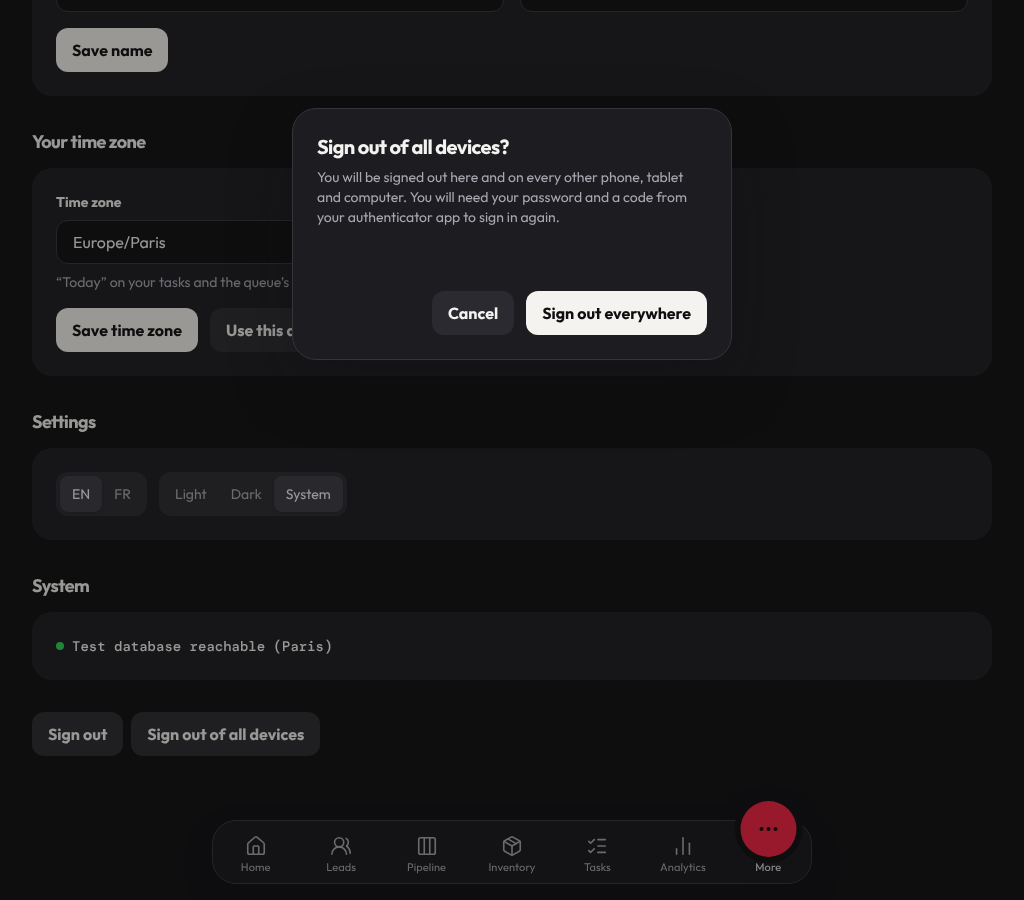
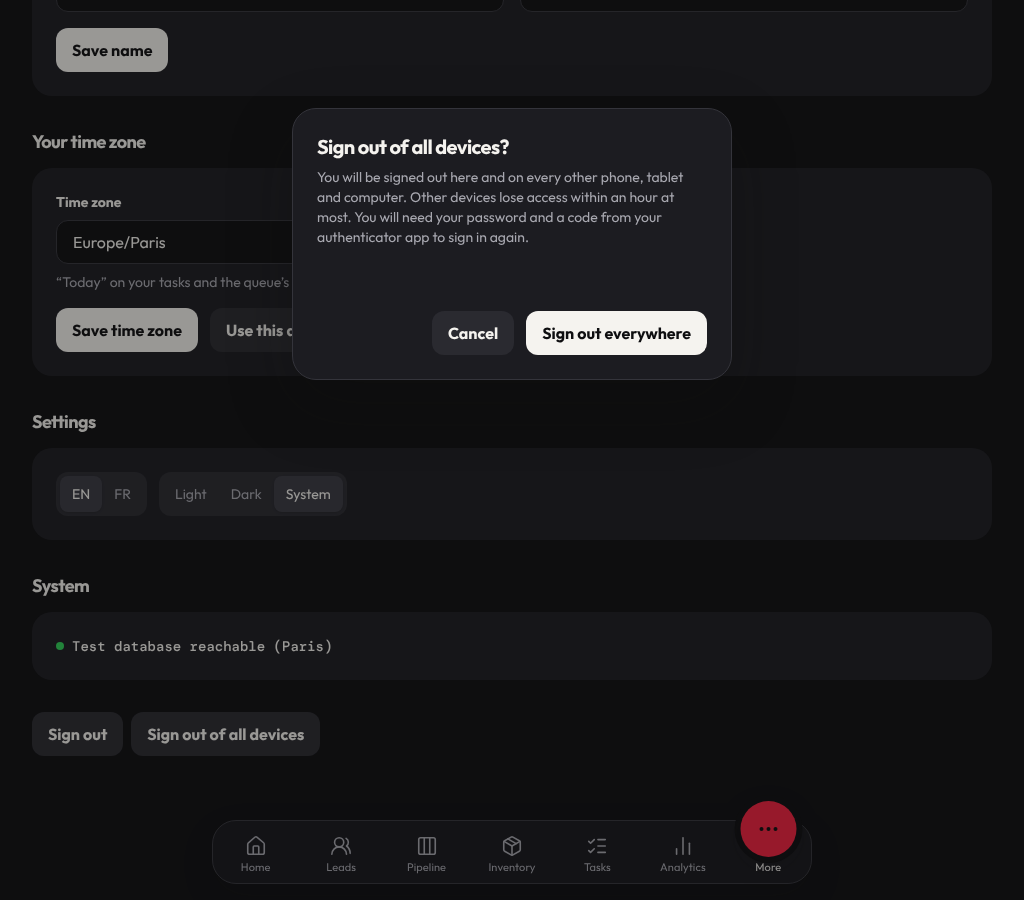
Day 7a round 2 evidence: honest rate-limit and sign-out residuals, Day 6 allowlist proof, security review, design notes, retaken sheet screens, 16 of 16 mutations, log rows
Claude-Session: https://claude.ai/code/session_017iY13emXgm4frkkmSZrEnt

Changed region(s): [[0.4375, 0.3111, 0.6875, 0.4044], [0.3125, 0.2178, 0.6562, 0.28]]

diff --git a/docs/evidence/day7a/README.md b/docs/evidence/day7a/README.md
@@ -10,11 +10,11 @@ Not pushed, no PR (builder task).
 
 | # | Gap (plan) | Change | Files |
 |---|---|---|---|
-| 1 | Anon test covered Day 1's 12 tables and 6 functions only (item 7) | `rls_attack.sql` section 1 now reads the catalog: every table, view, materialized view, foreign table, sequence and function in `public` and `private` is checked for any anon privilege (table, column, sequence, function), schema `private` has no anon USAGE and neither schema anon CREATE; then anon really tries SELECT, INSERT, UPDATE and DELETE on every relation (each must fail with 42501 before touching a row). Empty allowlist (comment says how to add one) | `supabase/tests/rls_attack.sql` |
+| 1 | Anon test covered Day 1's 12 tables and 6 functions only (item 7) | `rls_attack.sql` section 1 now reads the catalog: every table, view, materialized view, foreign table, sequence and function in `public` and `private` is checked for any anon privilege (table, column, sequence, function), schema `private` has no anon USAGE and neither schema anon CREATE; then anon really tries SELECT, INSERT, UPDATE and DELETE on every relation (each must fail with 42501 before touching a row). Allowlists: relations none; functions exactly `public.share_view(text,text)` and `public.share_request(text,jsonb)` by full signature (`regprocedure` text, schema-qualified), which Day 6 grants to anon by design (`20261020090000_client_share.sql`, the `grant execute … to anon` line, :1050 on `day6a-local`) | `supabase/tests/rls_attack.sql` |
 | 2 | No "Sign out of all devices" (item 25) | Server action `signOutEverywhere` (`signOut({ scope: "global" })`) behind `requireSession()` (aal2, checked on the server); a quiet button on More next to Sign out opens a confirmation sheet (Radix dialog, no browser popup; bottom sheet on phones); failure keeps the sheet open with a short message; EN/FR | `src/app/(auth)/actions.ts`, `src/components/shell/sign-out-everywhere.tsx`, `src/app/(app)/more/page.tsx`, `loading.tsx`, `messages/*.json` |
 | 3 | Auth cookie Secure flag unverified (item 47) | One `authCookieOptions(https)` for every Supabase client (proxy, server, browser): `Secure` whenever the request is HTTPS (URL or `x-forwarded-proto`, which Vercel sets), `SameSite=Lax`, `Path=/`, not HttpOnly (the browser client of the Files tab reads them; accepted residual 3). `__Host-` is not possible (the library names the cookies `sb-<ref>-auth-token`) | `src/lib/supabase/cookie-options.ts`, `client.ts`, `server.ts`, `src/proxy.ts` |
-| 4 | No limit on search and list APIs (item 28) | Per-person sliding window keyed by the verified user id: 300 requests a minute across `/api/leads` (search and the lead pickers), `/api/pipeline/board`, `/stage`, `/summary` and `/api/tasks`; 429 `{ "error": "rate_limited" }`, `Retry-After`, no-store | `src/lib/rate-limit.ts`, the five `route.ts` |
-| 5 | Sign-ins not audited (question 9) | `audit_log` gains actions `sign_in` and `mfa_verify`; `public.record_auth_event(p_event)` is SECURITY INVOKER: the caller inserts one row about themselves under RLS (policy pins actor, org, action, table `auth`, no record id, no details; column grant on 4 columns; the table's restrictive aal2 policy applies). Written after the authenticator code is accepted at sign-in (`verifyTotp`, `verifyTotpEnrollment`: exactly one `sign_in` per sign-in) and at "Confirm it's you" (`verifyStepUp`: `mfa_verify`). No IP, no email, no details. Flood guard: 30 an hour per person (a DEFINER trigger, not callable, so it can count rows only admins can read). Best effort: a failed write never blocks a sign-in | `supabase/migrations/20261021100000_day7a_security.sql`, `src/lib/auth-events.ts`, `src/app/(auth)/actions.ts`, `src/app/(app)/step-up-actions.ts` |
+| 4 | No limit on search and list APIs (item 28) | Per-person sliding window keyed by the verified user id: 300 requests a minute across `/api/leads` (search and the lead pickers), `/api/pipeline/board`, `/stage`, `/summary` and `/api/tasks`; 429 `{ "error": "rate_limited" }`, `Retry-After`, no-store. A speed bump, not scrape protection (decisions and residual R1 below) | `src/lib/rate-limit.ts`, the five `route.ts` |
+| 5 | Sign-ins not audited (question 9) | `audit_log` gains actions `sign_in` and `mfa_verify`; `public.record_auth_event(p_event)` is SECURITY INVOKER: the caller inserts one row about themselves under RLS (policy pins actor, org, action, table `auth`, no record id, no details; column grant on 4 columns; the table's restrictive aal2 policy applies). Written after the authenticator code is accepted at sign-in (`verifyTotp`, `verifyTotpEnrollment`: exactly one `sign_in` per sign-in) and at "Confirm it's you" (`verifyStepUp`: `mfa_verify`). No IP, no email, no details. Flood guard: 30 an hour per person (a DEFINER trigger, not callable, so it can count rows only admins can read; a row about someone else is left to RLS before any count, so a refusal never tells a caller another person's sign-in count). Best effort: a failed write never blocks a sign-in | `supabase/migrations/20261021100000_day7a_security.sql`, `src/lib/auth-events.ts`, `src/app/(auth)/actions.ts`, `src/app/(app)/step-up-actions.ts` |
 | 6 | Same-org owner check (item 49, question 5) | Finding: `private.enforce_org_and_owner` already refuses an owner outside the caller's organisation since `20261010090000_leads_are_companies.sql` (the Day 5 review read the core version); only the lead owner through `update_lead` was tested (`rls_attack.sql`), and it skips sessions with no signed-in user by design. Added as a database rule for every path: `profiles (id, org_id)` unique, and composite foreign keys `companies (owner_id, org_id)`, `deals (owner_id, org_id)`, `tasks (assignee_id, org_id)` to it (`on delete set null (owner column)`). Now tested on every path a manager can choose an owner | same migration, `supabase/tests/day7a_attack.sql` |
 
 Also: `scripts/db-test.sh` takes `DB_TEST_PORT` (default 54329) so two checkouts can run it at once; CI (`db.yml`) runs
@@ -24,9 +24,16 @@ the new attack file; `scripts/db-mutations.py` has a `day7a` set.
 - No step-up for Sign out everywhere: it only removes access and is what someone does after losing a device; Master
   Plan section 8 lists step-up for adjustments, imports, exports, deletes and role changes. The server still requires a
   full aal2 session.
-- Rate limit in the app, per instance, not the plan's `private.rate_hits` table: no extra database round trip on every
-  list request (route budget 200 ms), no new DEFINER RPC, and a stolen session's scrape is still capped per instance.
-  The platform-wide layer is the Vercel Firewall rule (Day 8, after Pro).
+- **Rate limit: deviation awaiting Haider (HAIDER DECIDES; recommended: accept as residual R1).** Master Plan section 8
+  item 28 and the plan's `private.rate_hits` table are not built; the limit is in the app, in memory, per server
+  instance (on Vercel each function instance keeps its own window and a cold start resets it). It is a speed bump
+  against a runaway client and casual scripting of the five routes, **not scrape protection**: authenticated has direct
+  SELECT on `public.companies` through PostgREST (`20261009180000_core_schema.sql:452`) and the auth cookies are
+  readable by scripts (residual 3), so a stolen session can read `{supabase}/rest/v1/companies` directly, up to
+  `max_rows` 1000 rows per request, without touching these routes. A `private.rate_hits` guard in the routes would be
+  bypassed the same way, so it would add a database round trip per list request (route budget 200 ms) for no real
+  gain. The real layers are two-factor sign-in, the Vercel Firewall rule (Day 8, after Pro) and, later, an RPC-only
+  read path (no direct table SELECT for authenticated).
 - Migration timestamp 20261021100000 sorts after Day 6's last (20261020090000_client_share). Day 6 does not change
   `audit_log_action_check` (checked on `day6a-local`), so redefining it here loses nothing at the merge.
 
@@ -41,8 +48,9 @@ the new attack file; `scripts/db-mutations.py` has a `day7a` set.
   columns and no update/delete; B1 one row each, only who/what/when, rep cannot read it, own-org admin reads it, other
   org admin does not; B2 forgeries refused: another person's row, another org, another action, another table, details
   (an IP in `diff_json`), a back-dated `created_at`, aal1, update and delete (admin too); B3 anon; B4 the 31st row in
-  an hour is refused (`rate_limited`), another person is not held.
-- **SQL** `rls_attack.sql` section 1 (catalog sweep, above).
+  an hour is refused (`rate_limited`), another person is not held; B5 with the victim at 30 rows, a forged row about
+  them gets 42501 from RLS, not the flood guard's 22023, and the victim's own 31st row is still held.
+- **SQL** `rls_attack.sql` section 1 (catalog sweep, above; function allowlist for Day 6's two share functions).
 - **Unit** `tests/unit/auth-cookies.spec.ts` (the options; the real `@supabase/ssr` server client writing a refreshed
   session with a stub fetch, HTTPS and plain HTTP; a scan that every `createServerClient`/`createBrowserClient` in
   `src` passes the options), `tests/unit/rate-limit.spec.ts` (window, per person, refusals do not extend it, LRU cap,
@@ -54,24 +62,27 @@ the new attack file; `scripts/db-mutations.py` has a `day7a` set.
   confirm deletes every `auth.sessions` row of the person, clears this browser's cookies, the second browser lands on
   `/login` and its API answers 401; no console error); French button and sheet.
 
-## Checks (15 Oct 2026, on this branch's final code)
+## Checks (15 Oct 2026, on this branch's final code; re-run after the advisor's round 1, see the last rows)
 
 | Check | Result |
 |---|---|
 | `npm run lint` | 0 errors (2 existing warnings: TanStack `useVirtualizer` incompatible-library) |
 | `npm run typecheck` | clean |
 | `npm run test:unit` | 504 passed (new: auth-cookies 5, rate-limit 5; messages now cover `More`) |
-| `DB_TEST_PORT=54497 bash scripts/db-test.sh` (scratch PostgreSQL 16, own port) | all suites green, `day7a_attack: all checks passed`; `rls_attack` with the catalog sweep green |
+| `DB_TEST_PORT=54497 bash scripts/db-test.sh` (scratch PostgreSQL 16, own port) | all suites green, `day7a_attack: all checks passed` (incl. B5); `rls_attack` with the catalog sweep and the function allowlist green |
+| Anon sweep against Day 6 (scratch PostgreSQL 16 on 54498: `day6a-local` a083511's 16 migrations + this branch's migration, same shim) | `rls_attack.sql` **without** the allowlist (e038d65..66a25d4 version): `FAIL: anon can execute public.share_view(p_token text, p_known_version text)`; **with** it: `rls_attack: all checks passed`, and `day7a_attack: all checks passed` on the merged schema; exactness: an extra `public.share_view(text)` overload granted to anon fails the sweep (`FAIL: anon can execute public.share_view(p text)`) |
 | Supabase advisors (splinter, in db-test) | 0 ERROR; WARN `set_user_role` SECURITY DEFINER (accepted Day 1); INFO unindexed_foreign_keys 8 (was 5: the three composite keys; the existing single-column owner indexes serve profile deletes; accepted), unused_index 5 (empty database). `record_auth_event` is INVOKER, so no new DEFINER warning. Dev project advisors run after `deploy-dev-db` applies the migration (not deployed from here) |
-| Mutation anchors `python3 scripts/db-mutations.py --anchors` | all sets apply: 3b 37, 4a 104, 4b 94, 4c 92, 4d 44, 5a 76, 5b 20, 5c 21, team 4, **day7a 15** |
-| Mutation rows `DB_TEST_PORT=54497 python3 scripts/db-mutations.py --set day7a` | **15 of 15 caught** (`mutations.md`): 4 anon grants Day 1's list never named (incl. Day 5's `deal_stage_history`, a private table, schema `private`, a new RPC), 4 same-org rows (keys only, trigger only, both, task key), 7 sign-in-row rows (actor, org, action, table, `diff_json` grant, flood guard, DEFINER) |
+| Mutation anchors `python3 scripts/db-mutations.py --anchors` | all sets apply: 3b 37, 4a 104, 4b 94, 4c 92, 4d 44, 5a 76, 5b 20, 5c 21, team 4, **day7a 16** |
+| Mutation rows `DB_TEST_PORT=54497 python3 scripts/db-mutations.py --set day7a` | **16 of 16 caught** (`mutations.md`): 4 anon grants Day 1's list never named (incl. Day 5's `deal_stage_history`, a private table, schema `private`, a new RPC), 4 same-org rows (keys only, trigger only, both, task key), 8 sign-in-row rows (actor, org, action, table, `diff_json` grant, flood guard, flood guard counting a forged row (new, row 15), DEFINER) |
 | Planted breaks in TypeScript (unit tests) | 7 of 7 caught: proxy or server client without the shared options, Secure on plain HTTP, SameSite=None, Tasks API without the limit, a limiter that never refuses, a 429 that leaks counts |
 | Chromium e2e, throwaway isolated stack (Postgres 54540, GoTrue 9995, gateway 54541, `next start` 3400; never the shared stack) | `day7a.spec.ts` 6 passed; regression on what the change touches: `shell`, `team`, `leads`, `tasks`, `pipeline` 62 passed + 3 of `day4-security` before an artefact clash, then `day4-security` and `day5-security` 15 passed on a clean re-run (the first run's 2 failures were Playwright trace files deleted by a unit run sharing `test-results/`, ENOENT in `context.close()`, not app failures) |
+| Round 2 (after the advisor's CHANGES NEEDED) | lint 0 errors (same 2 warnings); typecheck clean; unit 504 passed; `day7a.spec.ts` 6 passed (now also checks the sheet's "within an hour" sentence, EN and FR) on a fresh throwaway isolated stack (Postgres 54540, GoTrue 9995, gateway 54541, `next start` 3400; Chromium 141.0.7390.37), stack and build deleted after |
+| Sheet screens retaken (round 2) | the 24 `sheet-*` shots (6 widths, light and dark, EN and FR) with the new sentence, no console error, no sideways scroll; `more-*` unchanged (the More page itself did not change) |
 | Screens (`screens/`, Chromium 141) | More's sign-out row and the sheet at 390, 768, 1024, 1280, 1440, 1728, light and dark, EN and FR (48 shots): no console error, no sideways scroll; on phones the sheet rises from the bottom with the two buttons stacked, thumb-reachable; the button row stacks below 640 px; the loading skeleton has both buttons |
 | `npm audit --omit=dev` | 0 vulnerabilities |
-| gitleaks (`gitleaks git --log-opts=e038d65..HEAD`) | 3 commits scanned, no leaks (a directory scan only flags the ignored `.next` build output, which holds the throwaway local stack's anon key; not committed, deleted after the run) |
+| gitleaks (`gitleaks git --log-opts=e038d65..HEAD`) | round 1: 3 commits scanned, no leaks (a directory scan only flags the ignored `.next` build output, which holds the throwaway local stack's anon key; not committed, deleted after the run) |
 
-Design notes (DESIGN.md, apple-design checklist, web-design-guidelines, kept short): reuses the existing quiet button,
+Design notes (DESIGN.md; full notes in `apple-design-audit.md` and `web-design-guidelines.md`): reuses the existing quiet button,
 dialog and phone-sheet patterns (no new tokens, no red: the confirm is the neutral button since red is reserved for
 the brand fills), opacity + scale entrance from the shared dialog, focus trapped and returned by Radix, Escape and
 Cancel close, the confirm is disabled and `aria-busy` while the action runs, the error is a live region with words.
@@ -79,18 +90,42 @@ No native picker or popup in anything new.
 
 ## Open items
 
-- **Day 6 tables**: covered automatically by the catalog-driven anon test once Day 6 is merged (no list to edit). If a
-  Day 6 object ever needs anon (the plan names `share_view` and `share_request`; on `day6a-local` they run as the
-  `share_reader` role, not anon), it goes on the sweep's allowlist with a comment.
-- **Rate-limit helper**: `src/lib/rate-limit.ts` (per person) is unified with Day 6e's per-IP `src/lib/share/rate-limit.ts`
-  at the Day 6 merge (one module, two keys). Per instance only; the Vercel Firewall rule is Day 8 (after Pro).
-- **Sign out everywhere on hosted Supabase**: other devices lose their refresh token at once; with asymmetric JWT keys
-  their current access token can still verify locally until it expires (at most 1 hour), then the next refresh fails.
-  On the local stack (HS256) `getClaims` asks the auth server, so the second browser is signed out at once (tested).
+- **Day 6 objects**: Day 6's tables and functions are covered by the catalog-driven anon test once Day 6 is merged.
+  Day 6 grants EXECUTE on `public.share_view(text, text)` and `public.share_request(text, jsonb)` to anon by design
+  (the public share page; `20261020090000_client_share.sql:1050` on `day6a-local`; the functions are owned by
+  `share_reader` and run as it, but anon is the role that calls them). They are on the sweep's function allowlist by
+  full signature; any other anon grant still fails. Proven on a scratch PostgreSQL 16 with Day 6's migrations plus
+  this branch's: fails without the allowlist, passes with it (Checks).
+- **Rate-limit modules stay separate**: `src/lib/rate-limit.ts` (per person, this branch) and Day 6e's per-IP
+  `src/lib/share/rate-limit.ts` are not touched or merged here; unifying them (or dropping one) is its own later PR.
 - **Auth cookies stay readable by scripts** (residual 3, the Files tab's browser client needs them); CSP is the control.
   Secure is set from the request's protocol; on Vercel that is always HTTPS. Verify on the preview in 7d (DevTools >
   Application > Cookies shows Secure, Lax).
 - CI (`db.yml`, real Supabase image) has not run this branch (not pushed): the catalog sweep could meet a Supabase-only
   object in `public`; none is expected (fresh `supabase start`, all objects from our migrations).
-- Rest of step 7a (route inventory test, bundle scan, `GET /.env`, codes-only check on Day 5/6 APIs, `config push`
-  diff check, `deal_links_attack` block 2, deal Delete cut-off) and the dev advisors after deploy: later steps.
+- **Rest of step 7a, still to do** (later parts of 7a): `docs/evidence/day7/gate1.md`; `gate1_attack.sql` catalog
+  checks (a restrictive two-factor policy on every table; SECURITY DEFINER functions only from a reviewed list);
+  anon-key requests to every PostgREST table on real PostgREST in CI; `npm audit signatures`; `.mcp.json` re-check;
+  route inventory test, bundle scan, `GET /.env`, codes-only check on Day 5/6 APIs, `config push` diff check,
+  `deal_links_attack` block 2, deal Delete cut-off; the dev advisors after deploy.
+- **Belongs to 7b**: the More page's time-zone control is a native `<select>`; replacing it is step 7b, not 7a.
+
+## Residual risks (accepted unless Haider says otherwise)
+
+| # | Residual | Why it stays | Later option |
+|---|---|---|---|
+| R1 | Direct PostgREST reads are limited only by RLS and `max_rows` (1000 per request). The in-app limit (300 a minute per person, per instance, reset by a cold start) covers five routes only; a stolen session reads `rest/v1/companies` directly | Deviation from Master Plan section 8 item 28 / `private.rate_hits`: **HAIDER DECIDES** (recommended: accept as residual). Every person in Release 1 may read every lead (Haider's "3 yes"), so a full session already sees them all | Two-factor sign-in (in place); Vercel Firewall rule (Day 8); later an RPC-only read path (revoke direct SELECT) |
+| R2 | After "Sign out of all devices", another device's current access token stays valid until it expires: `jwt_expiry` 3600 s, `getClaims` verifies an asymmetric token locally and PostgREST does not check that the session still exists, so up to 1 hour of reads and writes. Refresh tokens die at once, so nothing lasts past that hour. The sheet says so ("Other devices lose access within an hour at most.") | Supabase's design; a shorter expiry means more refreshes | Day 8: a shorter production `jwt_expiry` (for example 900 s), **Haider's call** |
+| R3 | A signed-in person can write up to 30 fake `sign_in` rows an hour about themselves (only about themselves, no details, own organisation) | They are the person the row is about; the flood guard caps the noise; admins see actor and time | None planned |
+| 3 (existing) | Auth cookies are readable by scripts (the Files tab's browser client) | CSP is the control | Revisit if the Files tab moves server-side |
+
+## Context7 (libraries checked before writing code)
+
+- `@supabase/ssr` 0.12.7: `cookieOptions` on `createServerClient` / `createBrowserClient` (Secure, SameSite, Path; cookie names fixed as `sb-<ref>-auth-token`).
+- `@supabase/supabase-js` 2.117.3: `auth.signOut({ scope: "global" })` (revokes every refresh token of the person) and `auth.getClaims()` (local verification with asymmetric keys, a call to the auth server otherwise).
+- PostgreSQL 16: `FOREIGN KEY … ON DELETE SET NULL (column)` (only the owner column is emptied on a composite key) and column-level `GRANT INSERT (…)` together with RLS policies.
+
+## Reviews
+
+- `/security-review`: NO FINDINGS at 80 % confidence or more; its informational note (the flood count could answer for a forged row about another person) is applied and tested (B5, mutation 15): `security-review.md`.
+- apple-design audit of the More button and sheet: `apple-design-audit.md`. web-design-guidelines audit: `web-design-guidelines.md`.

diff --git a/docs/log.md b/docs/log.md
@@ -313,4 +313,7 @@
 | 2026-10-15 | builder | Team advisor round 3 **CHANGES NEEDED** (shots + docs + security records); all applied: the 50 team shots re-taken on 74ba153 code with the 634da7a wording (isolated local stack, Chrome Headless Shell 156, 4 passed, no console error, no sideways scroll; looked at team fr light 1440, team-menu fr dark 390 and 1440, team en dark 1728); `team.spec.ts` 5 passed (first run: `demoting_yourself` read Confirm at 43.9999 px while the sheet settled, re-run green); Team README "Role wording re-checked" table now 2ab9969 -> 634da7a, following Haider's 15 Oct "Admins only", and the stale deal-delete item replaced; screens README and apple-design audit name 74ba153; security-review gains the Day 5 merge delta and deal-delete delta reviews (both no findings) |
 | 2026-10-15 | builder | Day 7a part 1 (`day7a-local` from e038d65, not pushed; Day 6-independent parts of plan step 7a; Haider 15 Oct "A, all yes"): catalog-driven anon sweep in `rls_attack.sql` (every table, view, sequence and function in public and private; private schema not usable by anon; live SELECT/INSERT/UPDATE/DELETE as anon on every relation) so Day 6's tables are covered automatically once merged; "Sign out of all devices" on More (`signOut({ scope: "global" })`, aal2 checked on the server, confirmation sheet, EN/FR); auth cookies via one `authCookieOptions` (Secure on HTTPS, SameSite=Lax, Path=/, not HttpOnly: residual 3 stands, `__Host-` impossible with Supabase's cookie names); per-person limit on the search and list APIs (300 a minute, 429 `rate_limited`); sign-in audit rows; same-org owner keys. Evidence `docs/evidence/day7a/README.md` |
 | 2026-10-15 | builder | Decision (Day 7a): the same-org owner check already existed in `private.enforce_org_and_owner` since 20261010090000 (the Day 5 review read the core version); only the lead owner via `update_lead` was tested, and it skips sessions with no user; migration 20261021100000 adds composite keys `companies/deals (owner_id, org_id)` and `tasks (assignee_id, org_id)` to `profiles (id, org_id)` so every path holds the rule; tests on every owner-choosing path and 4 mutation rows. Local advisors: unindexed_foreign_keys INFO 5 -> 8 (the three composite keys; the single-column owner indexes serve profile deletes), accepted |
-| 2026-10-15 | builder | Decision (Day 7a, question 9 "who and when, no IP"): `audit_log` actions `sign_in` (once per completed sign-in, after the authenticator code) and `mfa_verify` (step-up); written by the person's own session through `record_auth_event`, SECURITY INVOKER under an insert policy that pins actor, org, action and table `auth` with no details; 30 an hour per person (non-callable DEFINER trigger counts the rows); best effort, never blocks a sign-in. Sign out everywhere needs no fresh code (it only removes access; not in Master Plan section 8's step-up list). Rate limit kept in the app per instance (no DB round trip per list request; the plan's `private.rate_hits` dropped); Vercel Firewall rule stays Day 8; Day 6e's per-IP share limiter is unified with `src/lib/rate-limit.ts` at the Day 6 merge |
+| 2026-10-15 | builder | Decision (Day 7a, question 9 "who and when, no IP"): `audit_log` actions `sign_in` (once per completed sign-in, after the authenticator code) and `mfa_verify` (step-up); written by the person's own session through `record_auth_event`, SECURITY INVOKER under an insert policy that pins actor, org, action and table `auth` with no details; 30 an hour per person (non-callable DEFINER trigger counts the rows); best effort, never blocks a sign-in. Sign out everywhere needs no fresh code (it only removes access; not in Master Plan section 8's step-up list). Rate limit: an in-memory per-person limit in the app (300 a minute on five list routes, per server instance; on Vercel each function instance has its own window and a cold start resets it). It is a speed bump against runaway clients and casual scripting, NOT scrape protection: authenticated has direct SELECT on `public.companies` via PostgREST (`20261009180000_core_schema.sql:452`) and auth cookies are script-readable (residual 3), so a stolen session reads `rest/v1/companies` directly at `max_rows` 1000 per request; a `private.rate_hits` guard in the routes would be bypassed the same way. Direct PostgREST reads are limited only by RLS and `max_rows`; the real layers are two-factor sign-in, the Vercel Firewall (Day 8) and later an RPC-only read path. Deviation from Master Plan section 8 item 28 / the plan's `private.rate_hits`: **HAIDER DECIDES** (recommended: accept as residual R1). Day 6e's per-IP share limiter is not touched; the two modules stay separate (unify later in its own PR, or drop) |
+| 2026-10-15 | advisor | Day 7a part 1 round 1 (66a25d4): **CHANGES NEEDED**: (1) the anon sweep fails once Day 6 merges (Day 6 grants EXECUTE on `share_view`/`share_request` to anon by design; proven on scratch PG16), allowlist them by full signature and fix the wrong comment; (2) rate-limit wording overstated it (direct PostgREST SELECT on companies; stolen sessions bypass the routes); (3) sign-out sheet promised more than tokens allow; (4) Context7 list, security-review record and its note's fix, design notes; (5) open items; (6) no Day 6 refactor plan |
+| 2026-10-15 | builder | Day 7a round 2 fixes (a6d4251, 532c153 + evidence): `rls_attack.sql` function allowlist `public.share_view(text,text)`, `public.share_request(text,jsonb)` by `regprocedure` text with an empty search_path (schema-qualified), comment points to `20261020090000_client_share.sql:1050`. Proven on scratch PG16 (day6a-local a083511's 16 migrations + 20261021100000): without the allowlist `FAIL: anon can execute public.share_view(...)`, with it rls_attack and day7a_attack pass; an extra `share_view(text)` overload granted to anon still fails. Security review informational note applied: `private.auth_event_guard` returns early when `actor_id` is not `auth.uid()`, so a forged row is refused by RLS (42501) before the count can tell another person's sign-in count; `day7a_attack.sql` B5 + mutation row 15. Sheet text EN "Other devices lose access within an hour at most." / FR "Les autres appareils perdent l’accès en une heure au plus."; 24 sheet shots retaken on a throwaway isolated stack (54540/9995/54541/3400, deleted after). Rate-limit wording rewritten (speed bump, not scrape protection; deviation from Master Plan §8 item 28 awaits Haider). README: residuals R1 (direct PostgREST reads limited only by RLS and max_rows), R2 (other devices up to 1 hour after Sign out everywhere: jwt_expiry 3600; Day 8 option shorter production jwt_expiry e.g. 900 s, Haider's call), R3 (up to 30 fake own sign_in rows an hour); Context7 list; rest-of-7a open items; new `security-review.md`, `apple-design-audit.md`, `web-design-guidelines.md`. The "unify with Day 6e's limiter at merge" plan is dropped: modules stay separate. Checks: lint 0 errors, typecheck, unit 504, db-test (54497) all suites green, day7a mutations 16 of 16 caught, day7a.spec 6 passed (Chromium 141) |
+| 2026-10-15 | builder | Decision pending Haider (HAIDER DECIDES): accept the in-app per-instance rate limit as residual R1 instead of Master Plan §8 item 28's `private.rate_hits` (recommended: accept); and whether Day 8 sets a shorter production `jwt_expiry` (for example 900 s) to shrink R2 |

diff --git a/docs/evidence/day7a/security-review.md b/docs/evidence/day7a/security-review.md
@@ -1,0 +1,48 @@
+# Day 7a (part 1): security review, 15 Oct 2026
+
+Scope: branch `day7a-local` against e038d65: migration `20261021100000_day7a_security.sql` (sign-in audit rows,
+same-organisation owner keys), `rls_attack.sql` section 1 (catalog-driven anon sweep), `src/lib/rate-limit.ts` and the
+five list routes, `src/lib/supabase/cookie-options.ts` with the three Supabase clients and `src/proxy.ts`,
+`signOutEverywhere` (`src/app/(auth)/actions.ts`) and its sheet, `src/lib/auth-events.ts` and its three callers.
+
+Method: `/security-review` (threat rows, report only findings at 80 % confidence or more, the skill's exclusions).
+
+## Result: NO FINDINGS at 80 % confidence or more
+
+What was checked:
+
+| Area | Checked | Holds because |
+|---|---|---|
+| Sign-in rows writer | `public.record_auth_event` | SECURITY INVOKER, `search_path = ''`; the caller's own insert under RLS; revoked from PUBLIC and anon |
+| Sign-in rows policy | insert policy on `public.audit_log` | pins `actor_id = auth.uid()`, `org_id = current_org_id()`, action in (`sign_in`, `mfa_verify`), table `auth`, no record id, no details; column grant on exactly 4 columns (`org_id, actor_id, action, table_name`), so no `diff_json`, `created_at` or `record_id`; the table's restrictive aal2 policy also applies |
+| Flood guard | `private.auth_event_guard` | DEFINER trigger function, not callable (revoked from PUBLIC, anon, authenticated), `search_path = ''` |
+| Same-org owner keys | composite FKs `companies/deals/tasks (owner, org_id) → profiles (id, org_id)` | `profiles_id_org_key` unique; MATCH SIMPLE (a null owner passes, as before); `ON DELETE SET NULL (owner column)` keeps `org_id` |
+| Anon sweep | `rls_attack.sql` section 1 | relkinds r, p, v, m, f, S; every `pg_proc` row in `public` and `private`; schema USAGE and CREATE; function allowlist by full signature (Day 6's two share functions only) |
+| Rate limiter | `src/lib/rate-limit.ts`, five routes | keyed on the verified `claims.sub`, checked after the aal2 session check; no counts in the 429 answer. Not scrape protection (README decisions and residual R1) |
+| Sign out everywhere | `signOutEverywhere` | requires an aal2 session (server-checked); a server action (POST, Next's Origin check); cookies SameSite=Lax |
+| Cookie flags | `authCookieOptions` | Secure from the request URL or `x-forwarded-proto`: a forged header can only add Secure (tightens), never remove it |
+| Secrets | the diff | none; no keys, no service-role use in client code, nothing logged |
+
+## Informational note (below the bar) and fix applied
+
+The flood guard counted the rows of `new.actor_id` before RLS checked the row. A signed-in person forging a row about
+someone else was refused either way, but the code of the refusal differed: `22023 rate_limited` when the victim had 30
+or more rows in the last hour, `42501` otherwise. That told the caller whether a colleague had signed in 30 times this
+hour (a weak oracle; admins can read the rows anyway).
+
+Applied: `private.auth_event_guard` now starts with
+
+```sql
+if new.actor_id is distinct from auth.uid() then
+  return new;
+end if;
+```
+
+so a forged row goes straight on to RLS, which refuses it with 42501 before any count can be observed. Proof:
+`day7a_attack.sql` block B5 (the victim has 30 rows; the forger gets 42501, not 22023; the victim's own 31st row is still
+held), and `db-mutations.py` day7a row 15 (removing the early return is caught by B5).
+
+## Accepted residual
+
+- A signed-in person can write up to 30 fake `sign_in` rows an hour about themselves (only about themselves, no
+  details, own organisation). README residual R3.

diff --git a/docs/evidence/day7a/apple-design-audit.md b/docs/evidence/day7a/apple-design-audit.md
@@ -1,0 +1,23 @@
+# Apple design audit: Day 7a "Sign out of all devices" (More button and sheet), 15 Oct 2026
+
+Checklist: docs/apple-design-audit.md (12 items) and the apple-design skill. Scope: the quiet button under Sign out on
+More, its confirmation sheet, the More loading skeleton. Screens: `screens/more-*` and `screens/sheet-*` (390, 768,
+1024, 1280, 1440, 1728; light and dark; EN and FR), retaken after the sheet text gained "Other devices lose access within
+an hour at most."
+
+| # | Item | Finding | Fix |
+|---|---|---|---|
+| 1 | Instant response | Button presses to 0.97 at once; the confirm is disabled with `aria-busy` while the action runs | none |
+| 2 | Tracks the finger | No drag here | none |
+| 3 | Momentum | Page scrolls natively | none |
+| 4 | Interruptible | The sheet uses the shared dialog's short CSS settle (too short to grab, as everywhere else) | none |
+| 5 | Rubber-band | Native edge bounce | none |
+| 6 | Animate from current value | On phones the sheet rises from the bottom edge (320 ms) and sinks back (200 ms); on wider screens opacity + scale | none |
+| 7 | Calm | No constant motion; one sheet, two buttons | none |
+| 8 | Reduced motion | The global block collapses the sheet animation | none |
+| 9 | Materials and depth | Solid card with the dialog shadow over a dimmed page; no glass | none |
+| 10 | Typography | Outfit; title 20 px bold with tight tracking and `text-balance`; body 14 px muted; the longer body (one more sentence) wraps to 4-5 lines at 390 and keeps a short measure on desktop (440 px sheet) | none |
+| 11 | Restraint | No red: the confirm is the neutral black button (red is reserved for brand fills); the entry button is quiet, below Sign out | none |
+| 12 | Reach | On phones the two buttons are full width, stacked, Cancel nearest the thumb; 44 px minimum height | none |
+
+Result: no change needed beyond the text.

diff --git a/docs/evidence/day7a/web-design-guidelines.md b/docs/evidence/day7a/web-design-guidelines.md
@@ -1,0 +1,20 @@
+# Web Interface Guidelines audit: Day 7a "Sign out of all devices" (More button and sheet), 15 Oct 2026
+
+Skill: web-design-guidelines (Vercel Web Interface Guidelines). Files: `src/components/shell/sign-out-everywhere.tsx`,
+`src/app/(app)/more/page.tsx`, `src/app/(app)/more/loading.tsx`, `messages/en.json` and `fr.json` (`More.everywhere`).
+
+| Area | Check | Result |
+|---|---|---|
+| Semantics | Real `<button type="button">` elements; Radix dialog gives `role="dialog"`, `aria-modal`, title and description wired by `DialogTitle` / `DialogDescription` | pass |
+| Focus | Focus moves into the sheet, is trapped, and returns to the button on close (Radix); visible focus ring on controls | pass |
+| Keyboard | Escape and Cancel close; Enter or Space activate buttons; no shortcut conflicts | pass |
+| Busy state | Confirm disabled with `aria-busy` while pending; the sheet cannot be dismissed mid-request | pass |
+| Errors | Inline, with words, in a live region (`FormMessage`), sheet stays open; no raw error text | pass |
+| Copy | Says what happens, here and elsewhere, now honest about timing ("Other devices lose access within an hour at most." / "Les autres appareils perdent l’accès en une heure au plus."); confirm label is the action ("Sign out everywhere") | pass |
+| i18n | All strings in messages; French typographic apostrophes; no hard-coded text | pass (unit `messages.spec.ts`) |
+| Touch | 44 px minimum targets; phone sheet bottom-anchored with safe-area padding | pass |
+| Layout | No horizontal scroll at 390 to 1728; buttons stack below 640 px | pass (screens) |
+| Destructive confirm | A confirmation step, no native `confirm()` | pass |
+| Loading | More's skeleton includes both sign-out buttons | pass |
+
+Result: no findings.

diff --git a/docs/evidence/day7a/mutations.md b/docs/evidence/day7a/mutations.md
@@ -1,4 +1,3 @@
-
 ### day7a
 
 | # | Protection removed | Result | First failure |
@@ -17,6 +16,7 @@
 | 12 | Sign-in rows: the insert policy allows any table name | caught | FAIL: "insert into public.audit_log (org_id, actor_id, action, table_name) |
 | 13 | Sign-in rows: the insert grant also covers diff_json (details such as an IP address) | caught | FAIL: authenticated has more than the four insert columns on audit_log |
 | 14 | Sign-in rows: no flood guard (30 an hour) | caught | FAIL: "select public.record_auth_event('sign_in')" succeeded, expected 22023 |
-| 15 | Sign-in rows: the writer runs as its owner (SECURITY DEFINER) | caught | FAIL: record_auth_event must be SECURITY INVOKER |
+| 15 | Sign-in rows: the flood guard counts a forged row about another person (its 22023 tells their sign-in count) | caught | FAIL: "insert into public.audit_log (org_id, actor_id, action, table_name) |
+| 16 | Sign-in rows: the writer runs as its owner (SECURITY DEFINER) | caught | FAIL: record_auth_event must be SECURITY INVOKER |
 
-day7a: 15 rows run: 15 caught, 0 documented two-layer rows not caught, 0 not as listed
+day7a: 16 rows run: 16 caught, 0 documented two-layer rows not caught, 0 not as listed
